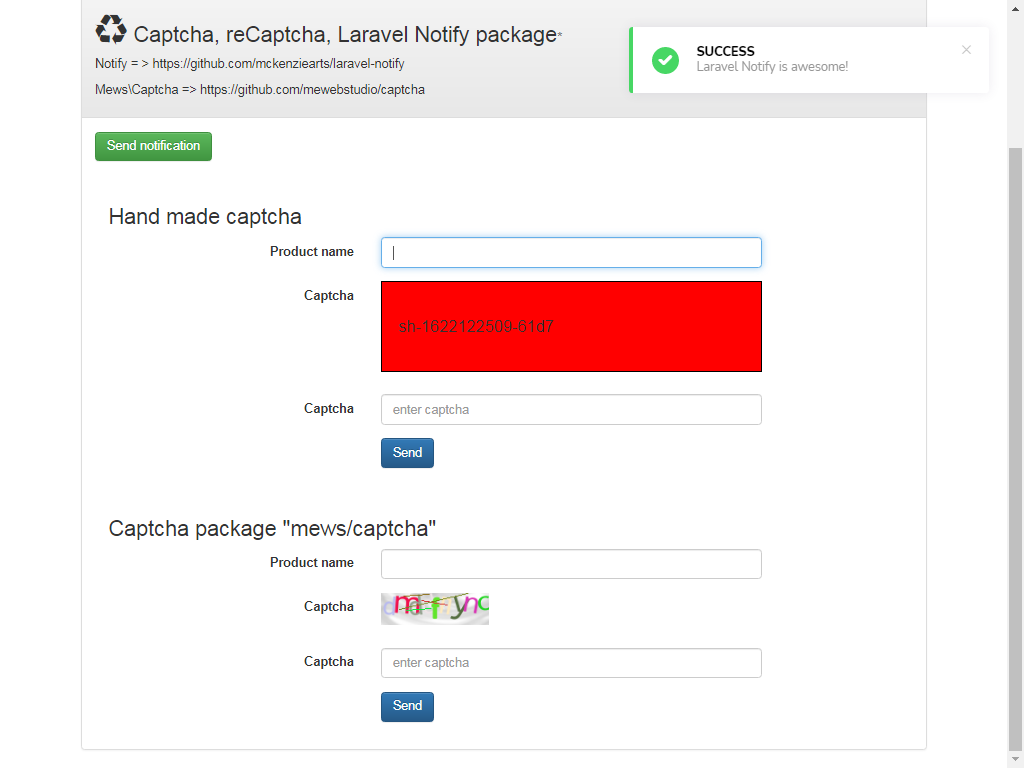
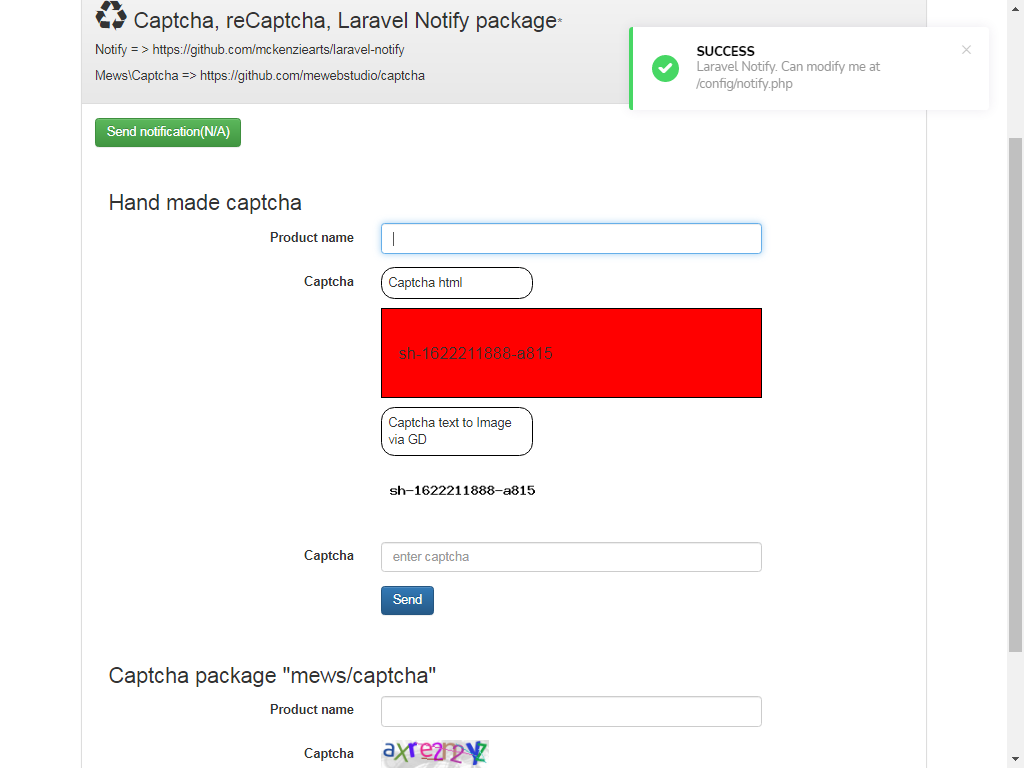
fix(): Laravel Notify and image captcha

diff --git a/blog_Laravel/resources/assets/js/WpBlog_Vue/router/index.js b/blog_Laravel/resources/assets/js/WpBlog_Vue/router/index.js
@@ -1,3 +1,4 @@
+//Defines routes. The links themselves are located in VueRouteMenu
 //https://github.com/hayanisaid/Vue-router
 import Vue from 'vue';
 import Router from 'vue-router';
@@ -14,9 +15,9 @@ Vue.use(Router);
 export default new Router({
   routes: [
     {
-      path: '/',
-      name: 'home',
-      component: home
+      path: '/',      //define URL route path. The links themselves are located in VueRouteMenu
+      name: 'home',   //same name as in component return section
+      component: home //component itself in '../components/pages/home'
     },
     {
       path: '/home',

diff --git a/blog_Laravel/resources/assets/js/WpBlog_Vue/components/VueRouterMenu.vue b/blog_Laravel/resources/assets/js/WpBlog_Vue/components/VueRouterMenu.vue
@@ -1,5 +1,5 @@
 <!-- https://github.com/hayanisaid/Vue-router -->
-<!-- Vue-Router Main menu with Links -->
+<!-- Vue-Router Main menu with Links, routes themselves are defined in /router/index -->
 
 <template>
   <div id="appDemo">

diff --git a/blog_Laravel/resources/assets/js/WpBlog_Vue/wpblog-vue-start.js b/blog_Laravel/resources/assets/js/WpBlog_Vue/wpblog-vue-start.js
@@ -1,3 +1,5 @@
+//ENTRY POINT
+
 //https://medium.com/js-dojo/build-a-simple-blog-with-multiple-image-upload-using-laravel-vue-5517de920796
 
 /**

diff --git a/blog_Laravel/app/Http/Controllers/RozetController.php b/blog_Laravel/app/Http/Controllers/RozetController.php
@@ -38,7 +38,7 @@ class RozetController extends Controller
      * SimpleXMLElement, DOMDocument  is a built-in Php library
      * @return \Illuminate\Http\Response
      * https://sellerhelp.rozetka.com.ua/p185-pricelist-requirements.html
-     * символы ", &, >, <, ' нужно заменять на эквивалентные коды. Требование относится только к тексту и не относится к написанию тегов;
+     * Use htmlspecialchars() as символы ", &, >, <, ' нужно заменять на эквивалентные коды. Требование относится только к тексту и не относится к написанию тегов;
      */
     public function createXMLSQL()
     {
@@ -62,13 +62,13 @@ class RozetController extends Controller
         // Список курсов валют магазина.
         $out .= '<currencies>' . "\r\n";
         $out .= '<currency id="UAH" rate="1"/>' . "\r\n";
-        $out .= '<currency id="USD" rate="26.8"/>' . "\r\n";
-        $out .= '<currency id="EUR" rate="29.2"/>' . "\r\n";
+        //$out .= '<currency id="USD" rate="26.8"/>' . "\r\n";
+        //$out .= '<currency id="EUR" rate="29.2"/>' . "\r\n";
         $out .= '</currencies>' . "\r\n";
  
  
         // Список категорий магазина:
-        // id     - ID категории.
+        // id     - ID категории, any random ID set by you.
         // parent - ID родительской категории.
         // name   - Название категории.
         $out .= '<categories>' . "\r\n";
@@ -100,7 +100,7 @@ class RozetController extends Controller
 	        // Валюта товара.
 	        $out .= '<currencyId>UAH</currencyId>' . "\r\n";//$out .= '<currencyId>' . $row->shop_currency . '</currencyId>' . "\r\n"; 
  
-	        // ID категории.
+	        // ID категории. //WRONG!!!!!!!!!!!!!
 	        $out .= '<categoryId>' . $row->categoryName->categ_name . '</categoryId>' . "\r\n"; //hasOne
  
 	        // Изображения товара, Required. Минимальное количество фото - 1, максимальное - 15. Максимальный размер 1 фотографии ━ 10 Мб..
@@ -116,7 +116,7 @@ class RozetController extends Controller
 	        $out .= '<name>'. $row->shop_title  .'</name>' . "\r\n";
  
 	       // Описание товара, максимум 50 000. Required. символов. описание желательно отформатировать с помощью html тегов. Html теги закрыть в <![CDATA[...]]>; 
-	       $out .= '<description> <![CDATA[' . stripslashes( $row->shop_descr ) . ']]> </description>' . "\r\n";   //A CDATA section is "a section of element content that is marked for the parser to interpret as only character data, not markup." 
+	       $out .= '<description> <![CDATA[' . stripslashes(htmlspecialchars($row->shop_descr)) . ']]> </description>' . "\r\n";   //A CDATA section is "a section of element content that is marked for the parser to interpret as only character data, not markup." 
 	       
            //Характеристики (параметры) товара. Required. Минимальное количество необходимых характеристик у товара — 3.
             $out .= '<param name="Рост">146 см</param>' . "\r\n";

diff --git a/blog_Laravel/resources/views/captcha/index.blade.php b/blog_Laravel/resources/views/captcha/index.blade.php
@@ -53,11 +53,14 @@
                 <div class="panel-body">
 				    
 					<p><a href="{{ route('handcaptcha') }}">
-                        <button class="btn btn-large btn-success">Send notification</button>
+                        <button class="btn btn-large btn-success">Send notification(N/A)</button>
                     </a></p>
-
-				    @include('notify::messages')
-				
+                    
+                    <!-- Laravel notify message. Div is not required by documentation, but a fix not to hide notify message by menu bar -->
+                    <!-- Can modify at /config/notify.php -->
+                    <div style="position:relative;z-index:99999999999999999;">
+				        @include('notify::messages')
+				    </div>
                 
                 
                 
@@ -83,13 +86,24 @@
 							        </div>
                                 </div>	
                                 
-                                <!-- Display Hand-made generated Captcha  -->
+                                <!-- Display Hand-made generated Captcha (both html and image)  -->
                                 <div class="form-group">
                                     <label for="product-name" class="col-md-4 control-label">Captcha</label>
                                     <div class="col-md-6">
-                                        <p class="" style="background:red; padding:2em 1em; border:1px solid black;font-size:1.3em;"> {{ $UUID }} </p>
+                                        <p style="padding:0.5em; border:1px solid black;border-radius:15px; width:40%;">
+                                            Captcha html
+                                        </p>
+                                        <p class="" style="background:red; padding:2em 1em; border:1px solid black;font-size:1.3em;"> 
+                                            {{ $UUID }}  <!-- generated captcha as html text -->
+                                        </p>
+                                        
+                                        <p style="padding:0.5em; border:1px solid black;border-radius:15px;width:40%;">
+                                            Captcha text to Image via GD
+                                        </p>
+                                        <p><img src="captcha-image.png" alt=""/></p> <!-- generated captcha as GD image -->
                                     </div>
                                 </div>
+                                
                                 
                                 <!-- Hand made Capcha to repeat -->
                                 <div class="form-group{{ $errors->has('hand-captcha') ? ' has-error' : '' }}">

diff --git a/blog_Laravel/app/Http/Controllers/CaptchaController.php b/blog_Laravel/app/Http/Controllers/CaptchaController.php
@@ -30,11 +30,9 @@ class CaptchaController extends Controller
     { 
         session_start();
         
-        //test of Laravel Notify package
-        //$when = now()->addSeconds(3);//addMinutes(1);
-		notify()->success('Laravel Notify is awesome!');
-        //notify()->success('Laravel Notify is awesome222!')->delay($when);
-        //connectify('success', 'Connection Found', 'Success Message Here');
+        //test of Laravel Notify package, can config at /config/notify.php
+		notify()->success('Laravel Notify. Can modify me at /config/notify.php. Can send Notify from other function like flash messages (just add in view @include("notify::messages"))');
+        //connectify('success', 'Connection Found', 'Can modify me at /config/notify.php');
         //drakify('success');
         //smilify('success', 'You are successfully reconnected');
         
@@ -42,6 +40,15 @@ class CaptchaController extends Controller
         $length = 4;
         $UUID = "sh-" . time() ."-". substr( md5(uniqid()), 0, $length); 
         $_SESSION['captcha_1604938863'] = $UUID;
+        
+        //convert text to image via GD Library
+        $img = imagecreate(200, 60); //creates an empty canvas, an empty transparent rectangle //NEW EMPTY IMAGE OBJECT // imagecreate(WIDTH, HEIGHT)
+        $white = imagecolorallocate($img, 255, 255, 255); //SET COLORS (background)//imagecolorallocate(IMAGE, RED, GREEN, BLUE)
+        $black = imagecolorallocate($img, 0, 0, 0); //text color
+        imagefilledrectangle($img, 0, 0, 200, 100, $white); // imagefilledrectangle(IMAGE, START X, START Y, END X, ENDY, COLOR) //fill a solid background to rectangle 
+        imagestring($img, 5, 10, 20, $UUID, $black);   //to write the text to image //imagestring(IMAGE, FONT, X, Y(vertical), TEXT, COLOR) //// FONT is a number 1 to 5. 1 is smallest font size, 5 is biggest.
+        imagepng($img, "captcha-image.png"); //saves image to /public/
+        //imagedestroy($img); // OPTIONAL //not really required but good to have
         
         return view('captcha.index',  compact('UUID'));
     }
@@ -72,6 +79,7 @@ class CaptchaController extends Controller
         $validator =  Validator::make($request->all(), $rules, $messages);
         
         if ($validator->fails()) { 
+            //notify()->success('Validation failed'); //Works if there is no other Notification in target action
             return redirect()->back()
 			    ->withInput()
 			    ->with('flashMessageFailX', "Validation Failed")

diff --git a/blog_Laravel/resources/views/rozet/index.blade.php b/blog_Laravel/resources/views/rozet/index.blade.php
@@ -54,7 +54,7 @@
                         <button class="btn btn-large btn-success">Save & Output new XML from DB</button>
                     </a></p>
                     
-                    <p><a href="{{ route('createSQL') }}">
+                    <p><a onclick="alert('Not implemented yet');" href="#">
                         <button class="btn btn-large btn-info">Save & Output new XML from Excel</button>
                     </a></p>
 				    read Excel files with SimpleXLSX Lib

diff --git a/blog_Laravel/config/notify.php b/blog_Laravel/config/notify.php
@@ -1,5 +1,5 @@
 <?php
-
+//Laravel Notify Package config
 return [
 
     /*
@@ -40,7 +40,7 @@ return [
     'animate' => [
         'in_class'  => 'bounceInRight', // The class to use to animate the notice in.
         'out_class' => 'bounceOutRight', // The class to use to animate the notice out.
-        'timeout'   => 5000, // Number of seconds before the notice disappears
+        'timeout'   => 12000, // Number of seconds before the notice disappears //5000
     ],
 
     /*
